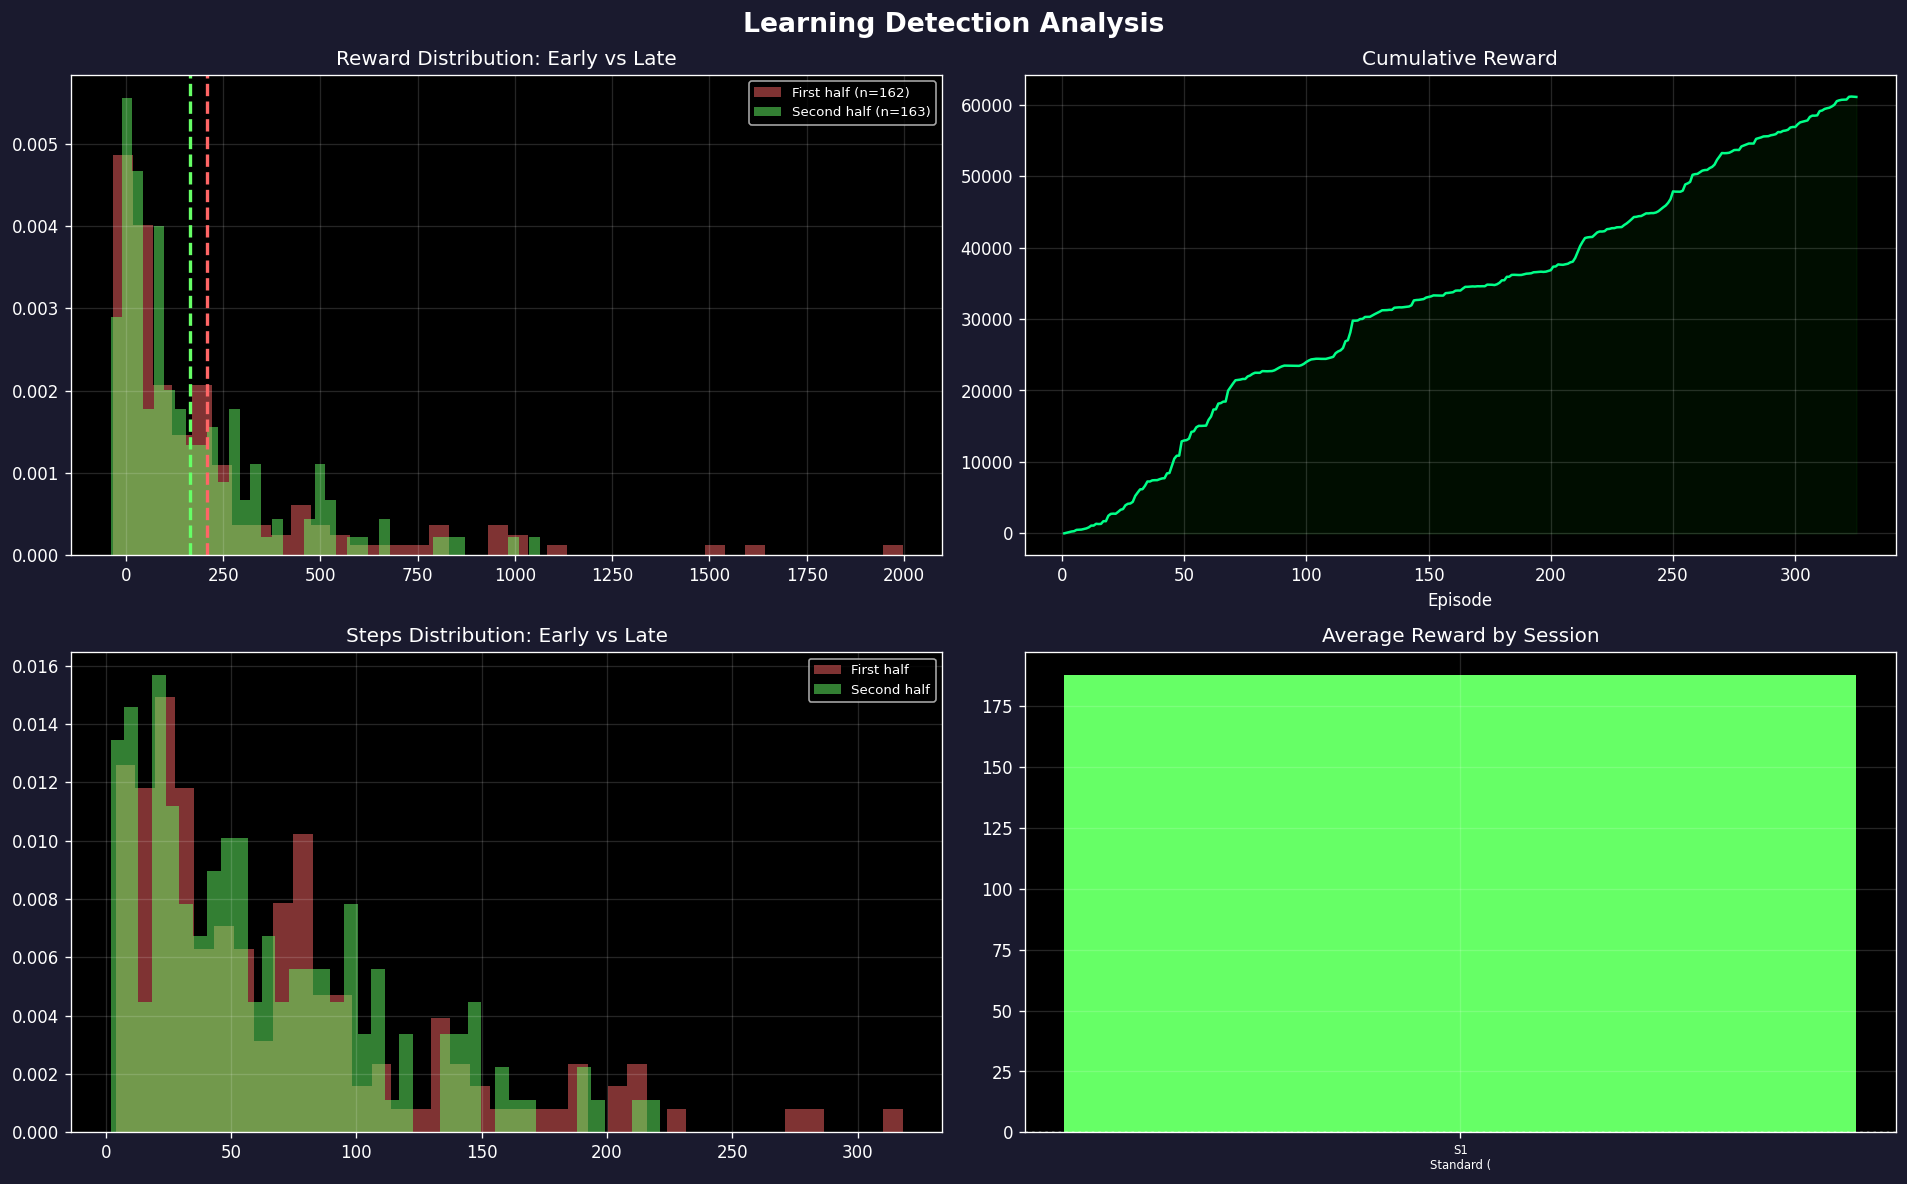
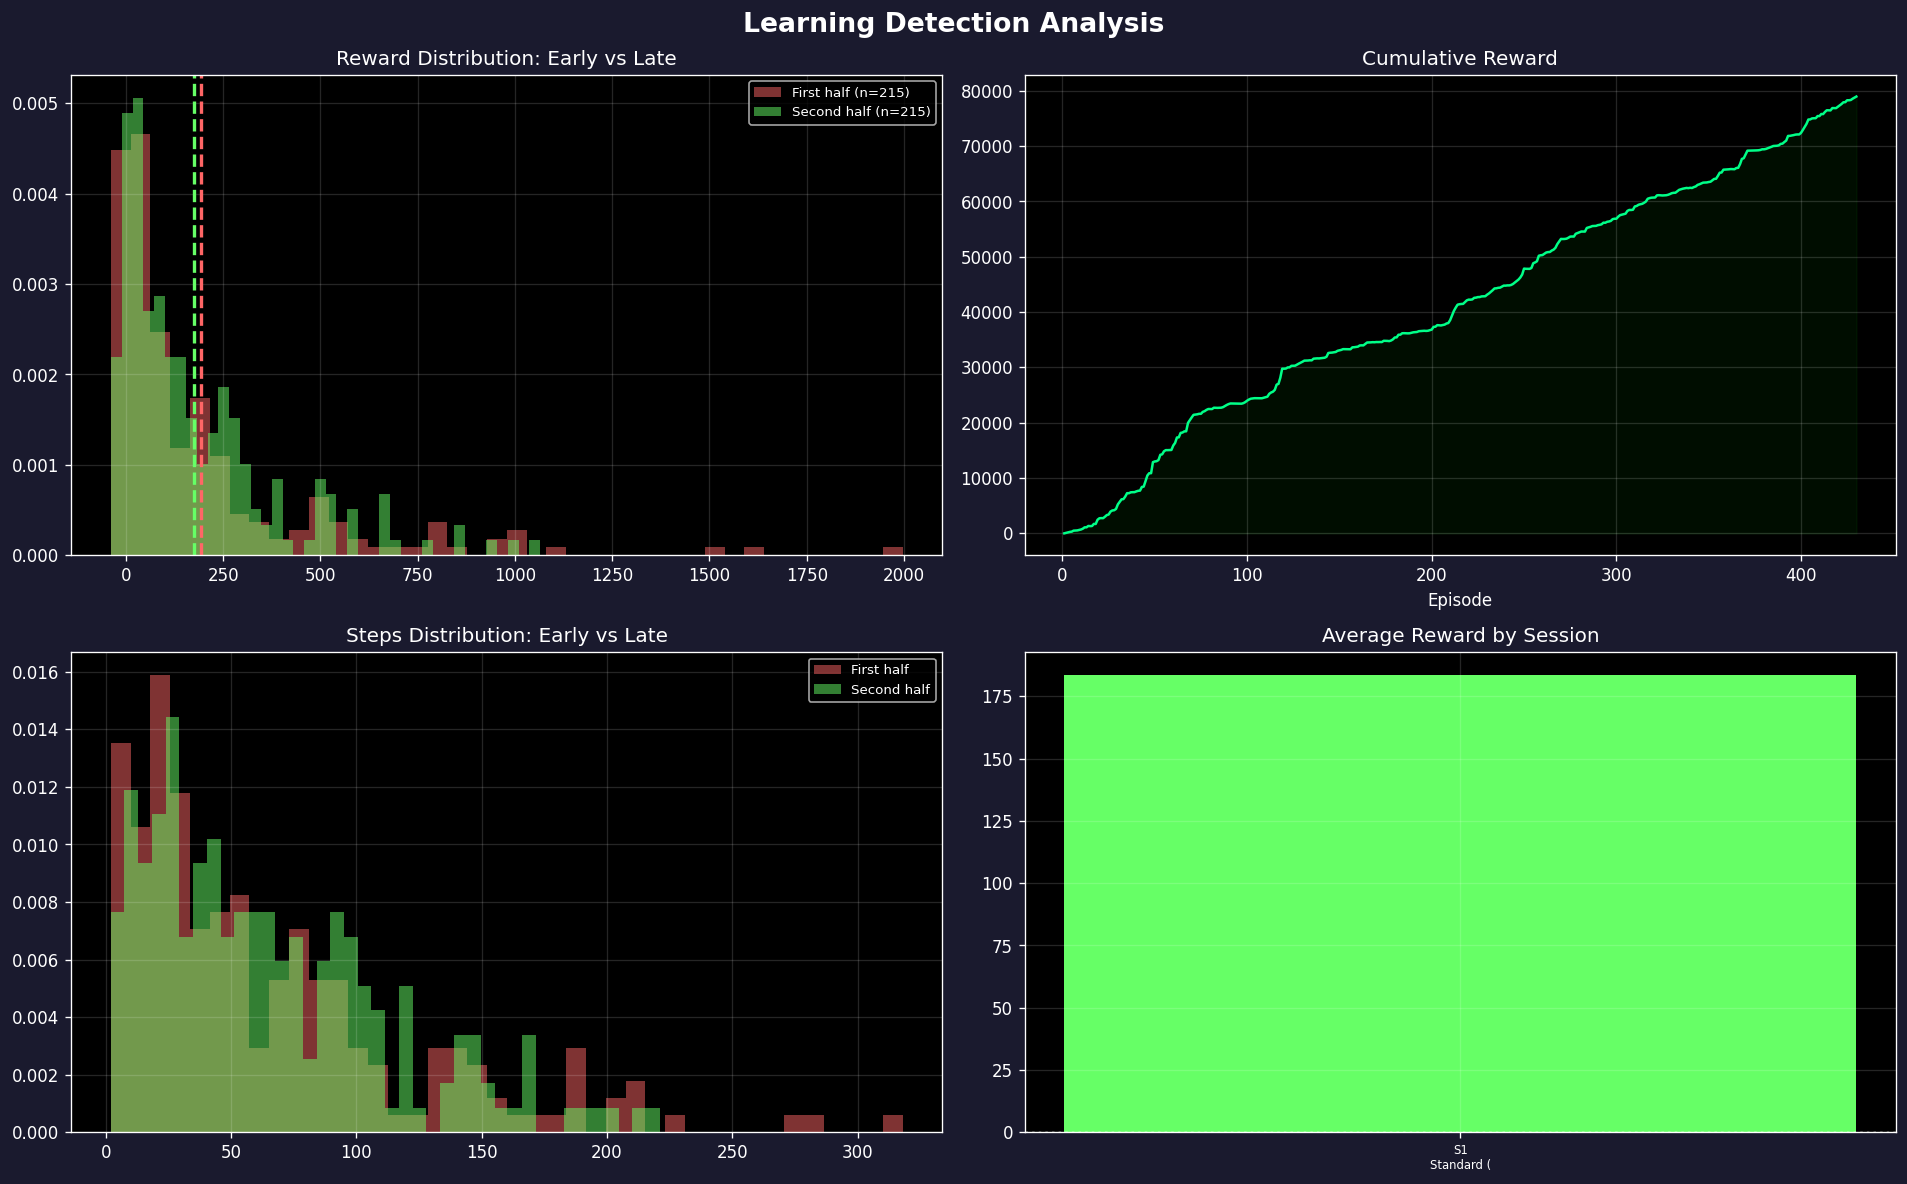
stats

diff --git a/gen2/progress_report.md b/gen2/progress_report.md
@@ -1,7 +1,7 @@
 # Slither.io Bot - Training Progress Report
 
-**Generated:** 2026-02-12 22:25:07  
-**Total Episodes:** 325  
+**Generated:** 2026-02-12 22:35:11  
+**Total Episodes:** 430  
 **Training Sessions:** 1
 
 ## Verdict: NOT LEARNING (Confidence: 50%)
@@ -9,7 +9,7 @@
 **Goal Feasibility:** UNLIKELY (5-25% chance) without tuning
 
 ### Warnings
-- Rewards flat: change = -43.6 between halves
+- Rewards flat: change = -18.0 between halves
 
 ### Positive Signals
 - Loss decreasing (model converging)
@@ -18,10 +18,10 @@
 
 | Metric | Mean | Std | Min | Max | P50 | P95 |
 |--------|------|-----|-----|-----|-----|-----|
-| Reward | 187.95 | 271.63 | -38.58 | 1996.81 | 91.72 | 788.52 |
-| Steps | 65.17 | 55.26 | 2.00 | 318.00 | 51.00 | 185.40 |
-| Food | 27.93 | 11.52 | 0.00 | 77.00 | 25.00 | 50.80 |
-| Loss | 23.78 | 63.86 | 1.07 | 392.24 | 5.87 | 181.56 |
+| Reward | 183.64 | 257.98 | -38.58 | 1996.81 | 90.59 | 682.12 |
+| Steps | 64.60 | 53.72 | 2.00 | 318.00 | 50.00 | 169.55 |
+| Food | 27.86 | 11.11 | 0.00 | 77.00 | 25.00 | 48.00 |
+| Loss | 19.24 | 56.11 | 0.86 | 392.24 | 5.54 | 75.34 |
 
 ## Goal Progress
 
@@ -34,7 +34,7 @@
 
 | # | Style | Episodes | Avg Reward | Avg Steps |
 |---|-------|----------|------------|----------|
-| 1 | Standard (Curriculum) | 1-325 | 187.9 | 65 |
+| 1 | Standard (Curriculum) | 1-430 | 183.6 | 65 |
 
 ## Recommendations
 
